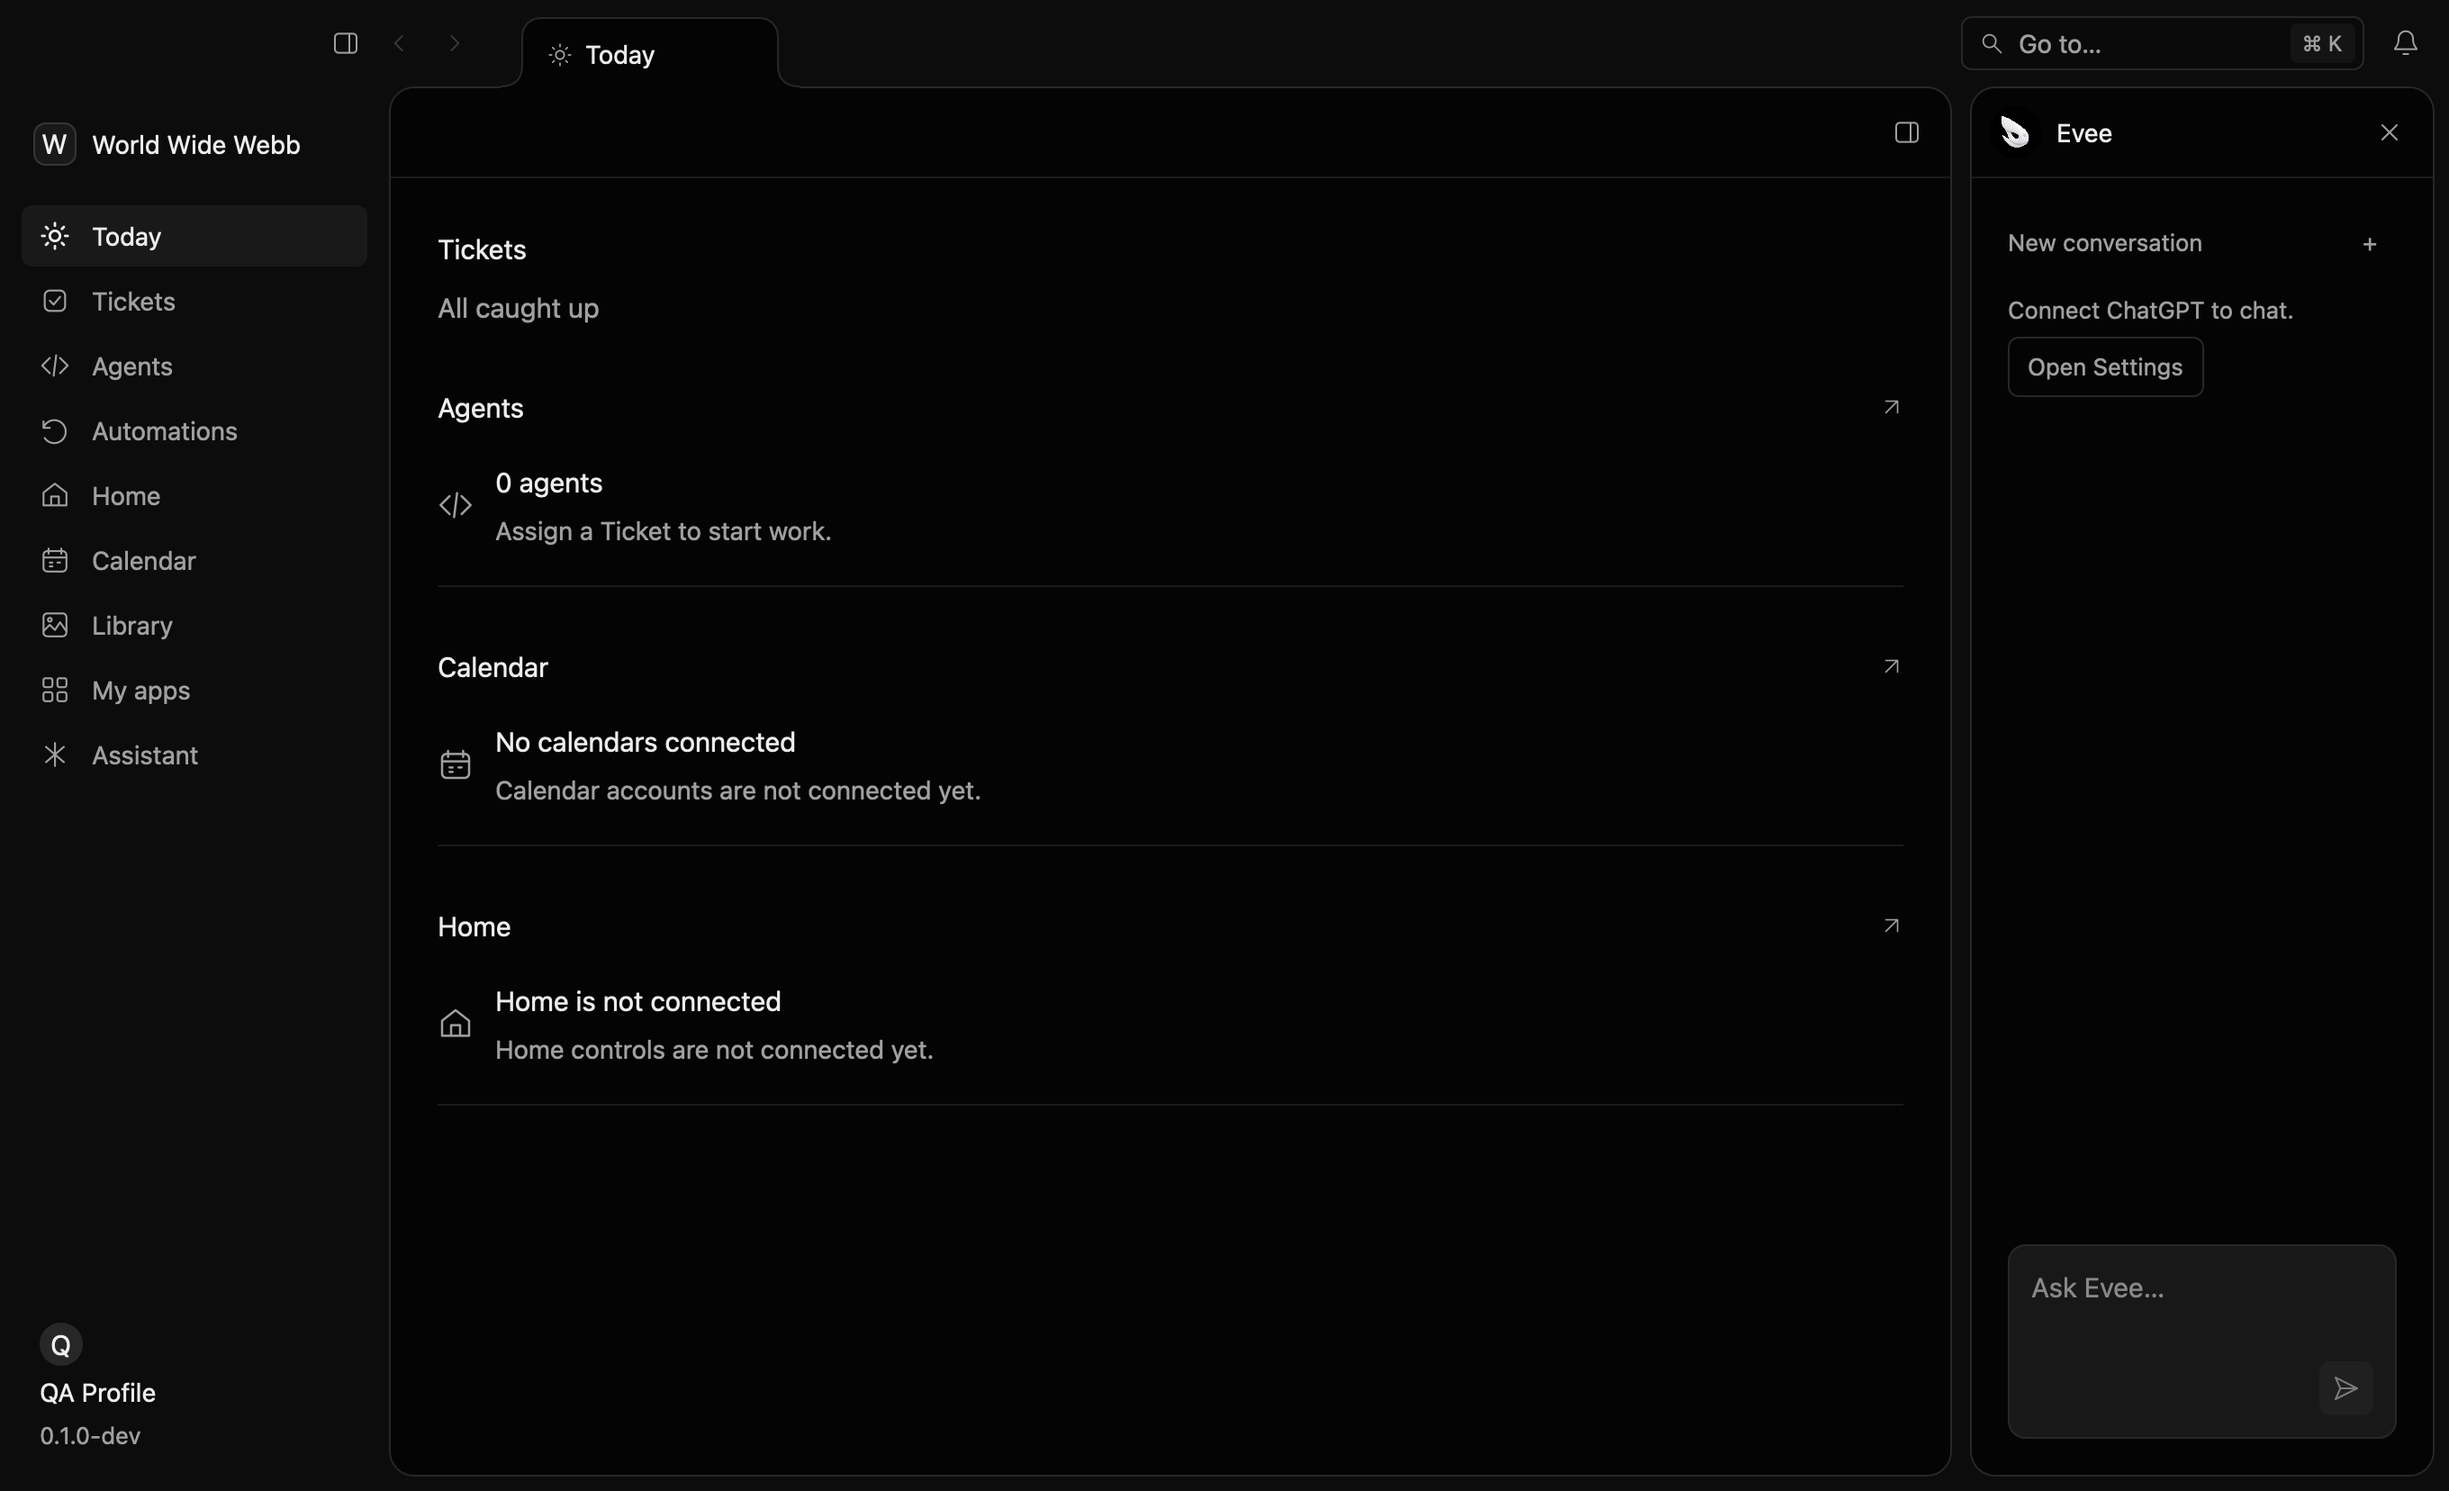
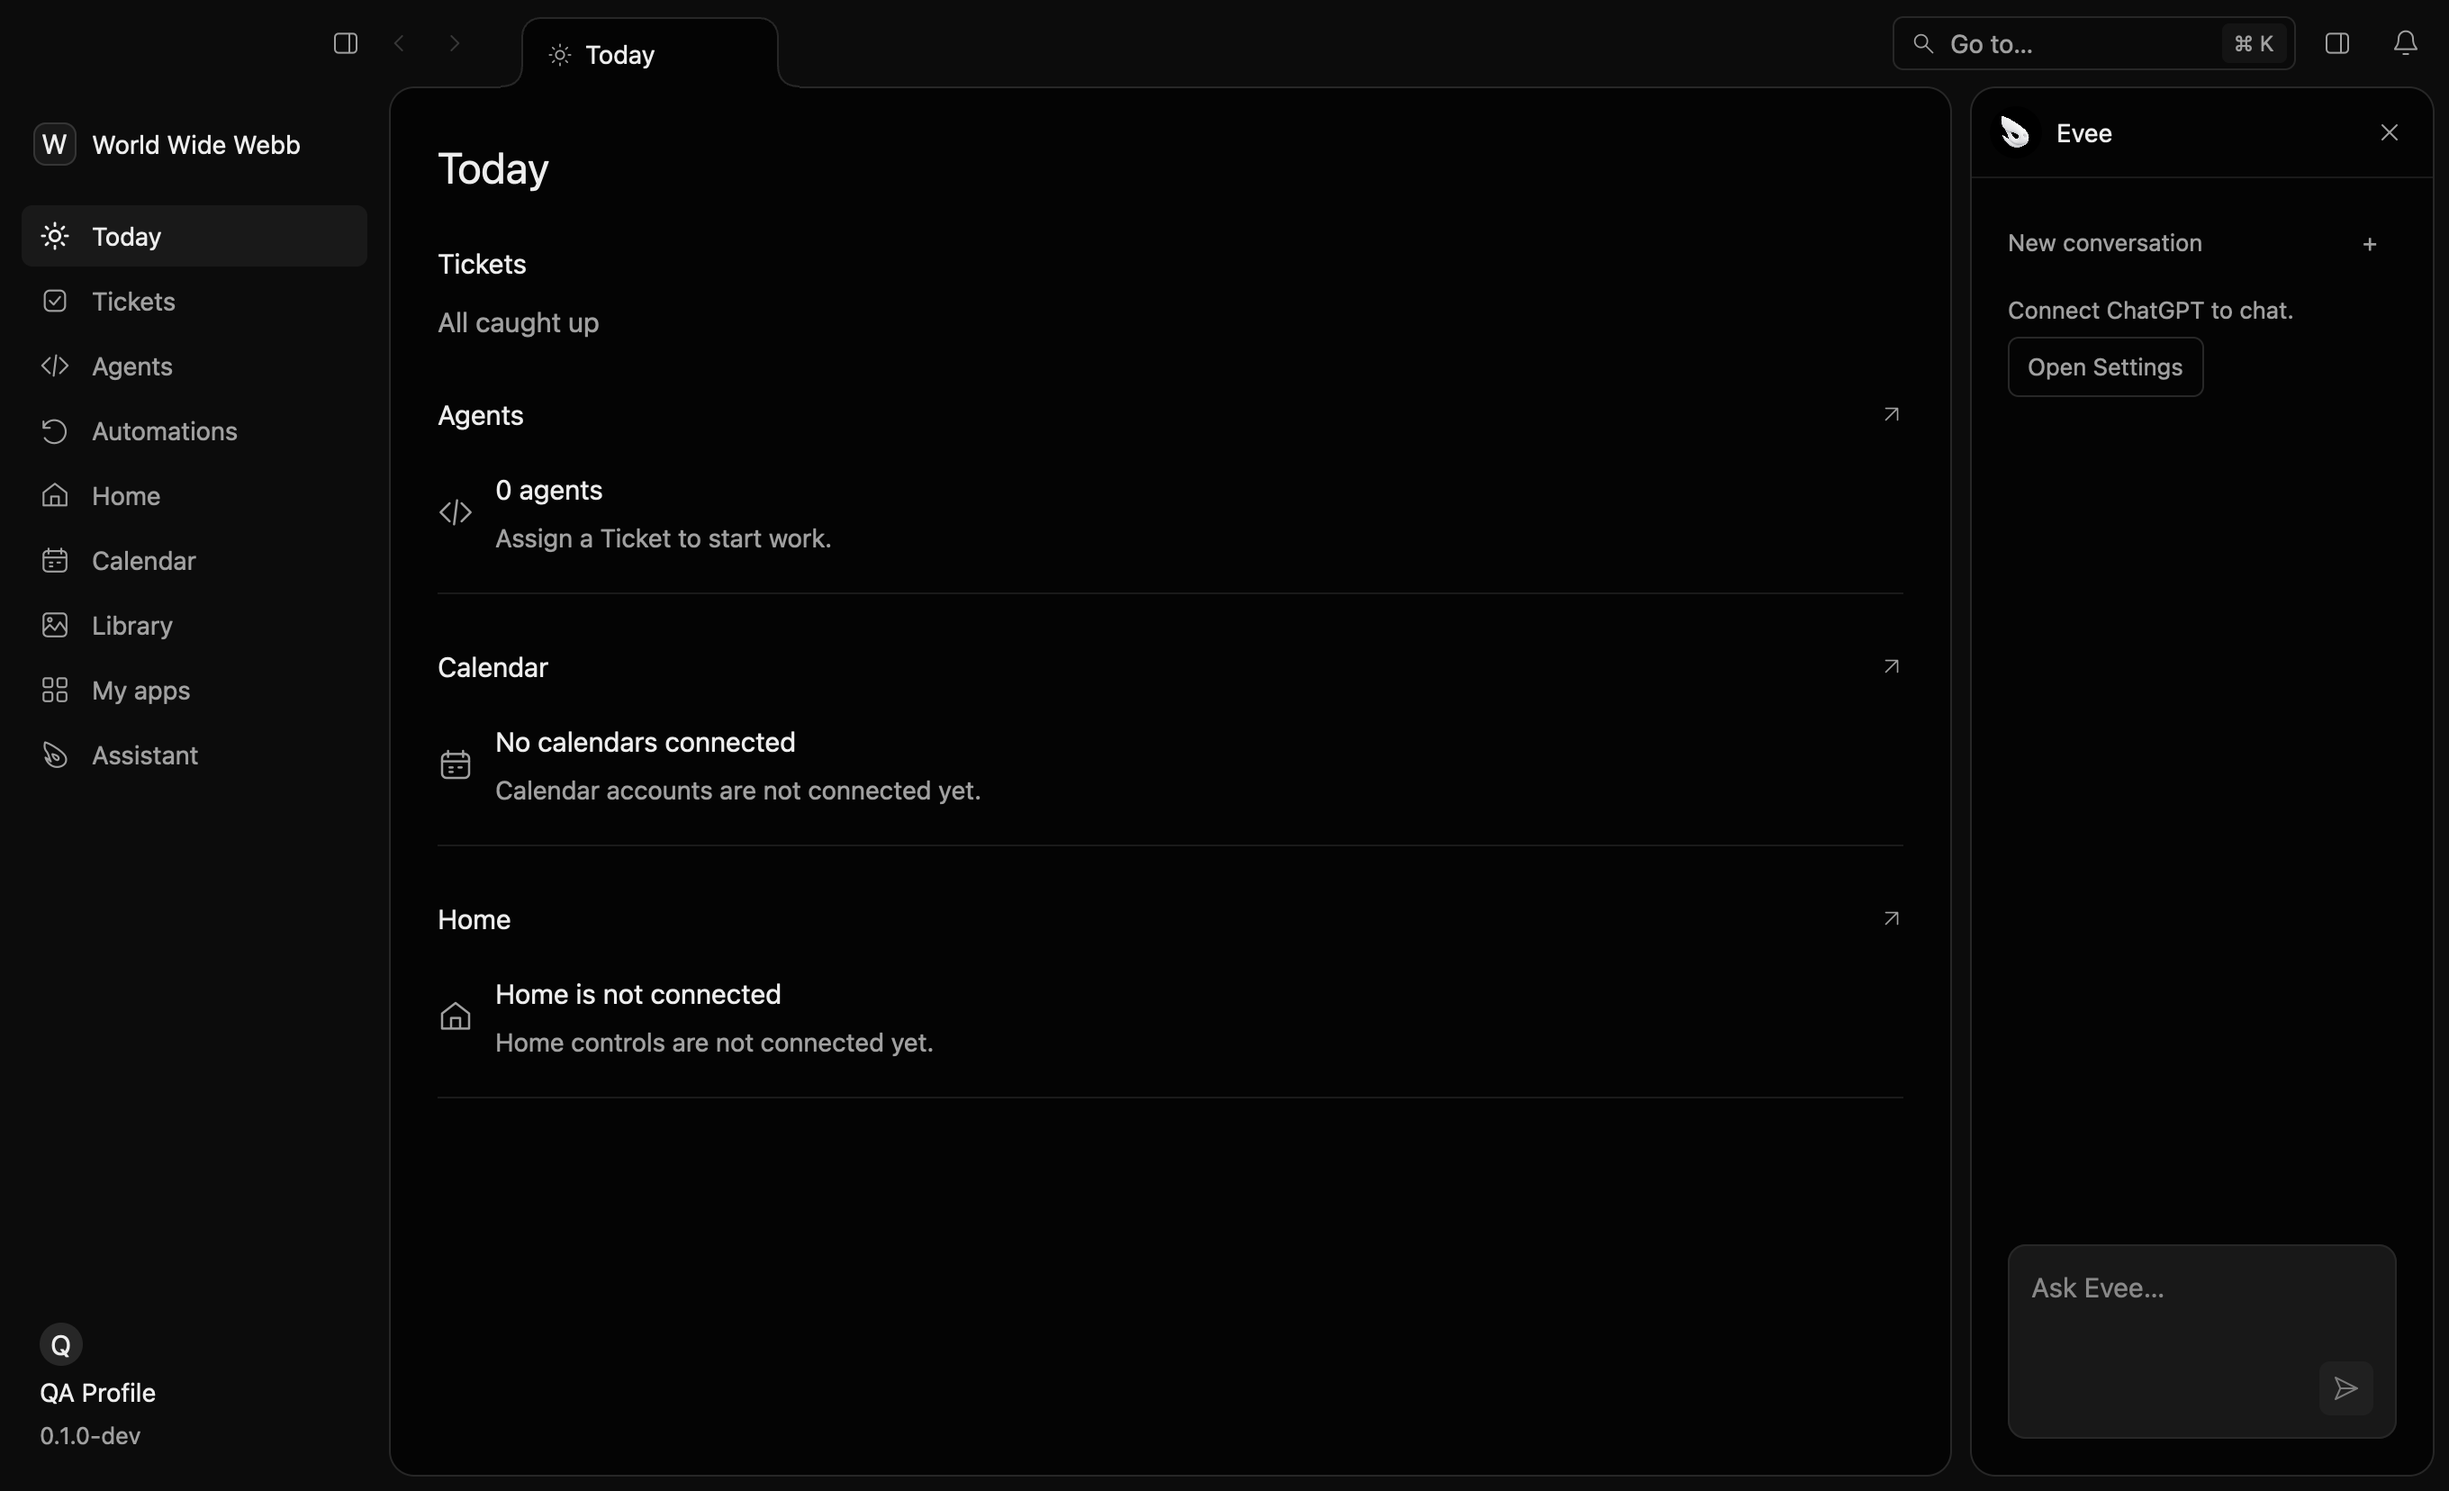
Refresh app identity evidence after rebase

diff --git a/crates/ainc-mac/tests/pilot_acceptance.rs b/crates/ainc-mac/tests/pilot_acceptance.rs
@@ -98,7 +98,7 @@ fn screenshot(client: &mut Client, name: &str, output: &std::path::Path) -> Resu
     for (region, [x0, y0, x1, y1]) in [
         ("header", [150, 10, 1350, 40]),
         ("sidebar", [20, 110, 165, 390]),
-        ("profile", [15, 784, 170, 816]),
+        ("profile", [15, 735, 170, 812]),
         ("Evee", [1110, 56, 1340, 90]),
     ] {
         let mut bright = 0;

diff --git a/crates/ainc-mac/docs/verification/app-identity/README.md b/crates/ainc-mac/docs/verification/app-identity/README.md
@@ -11,8 +11,10 @@ captures use this branch's compiled development identity and the same fixture.
 
 The 24 px profile photo, name, and muted `0.1.0-dev` are stacked on the
 same left edge. The profile still opens Settings. The rendered runner checks
-separate photo, name, and version regions across 38 frames. Pilot checks
-`sidebar.version` as a label named `0.1.0-dev` in the full app acceptance run.
+separate photo, name, and version regions across 41 frames. The Pilot initial
+snapshot exposes `sidebar.version` as a label named `0.1.0-dev`. The broader
+Pilot acceptance run reaches that snapshot but later fails on a Ticket
+acknowledgement timeout; its hidden-window test reports a frontmost-app change.
 The [development tooltip capture](version-tooltip.png) shows the full commit
 above the profile without covering its text.
 
